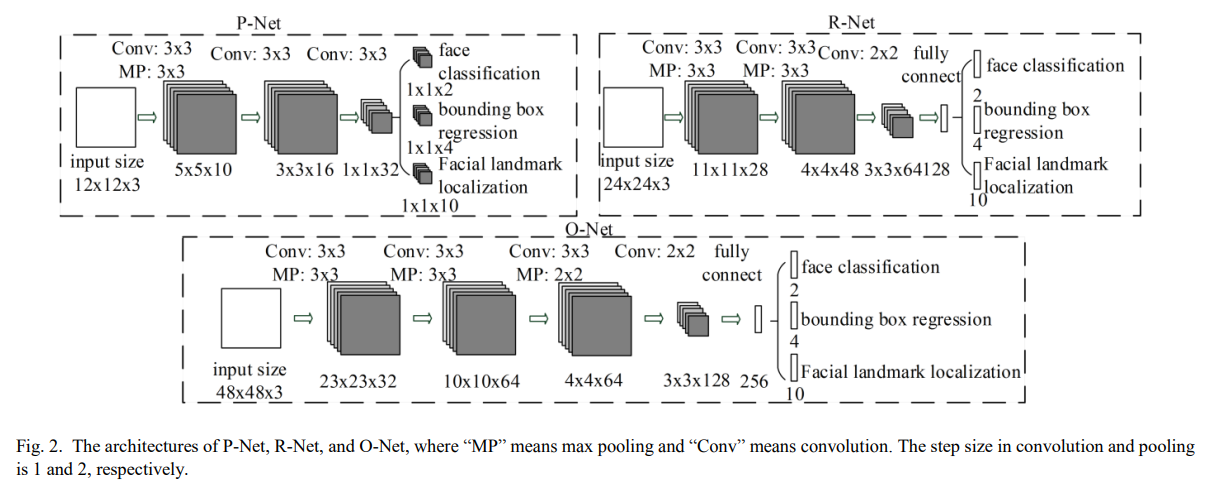
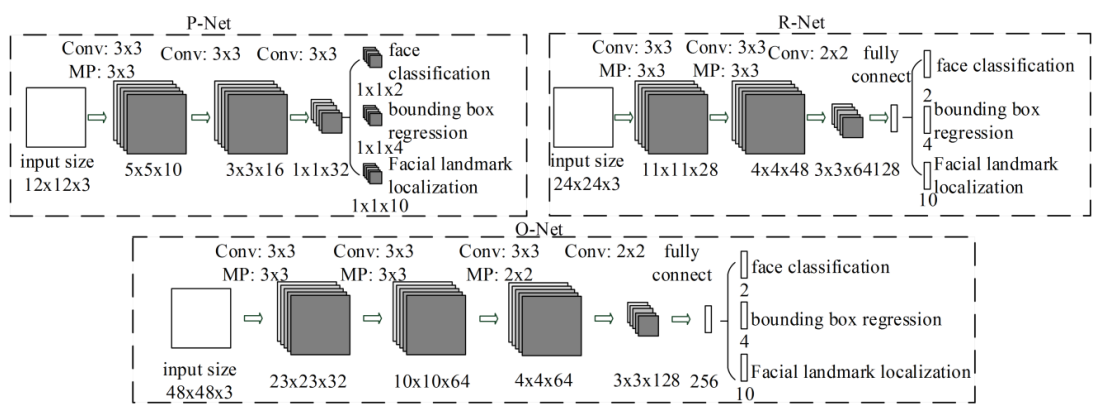
update

diff --git a/README.md b/README.md
@@ -16,6 +16,8 @@ MTCNN 论文预测部分的 PyTorch 实现：
 
 ### 架构
 
+P-Net, R-Net, and O-Net 的模型架构，其中 “MP” 表示最大池化，“Conv”表示卷积。
+
 ![image](https://github.com/foamliu/MTCNN/raw/master/images/architecture.png)
 
 ## 效果
